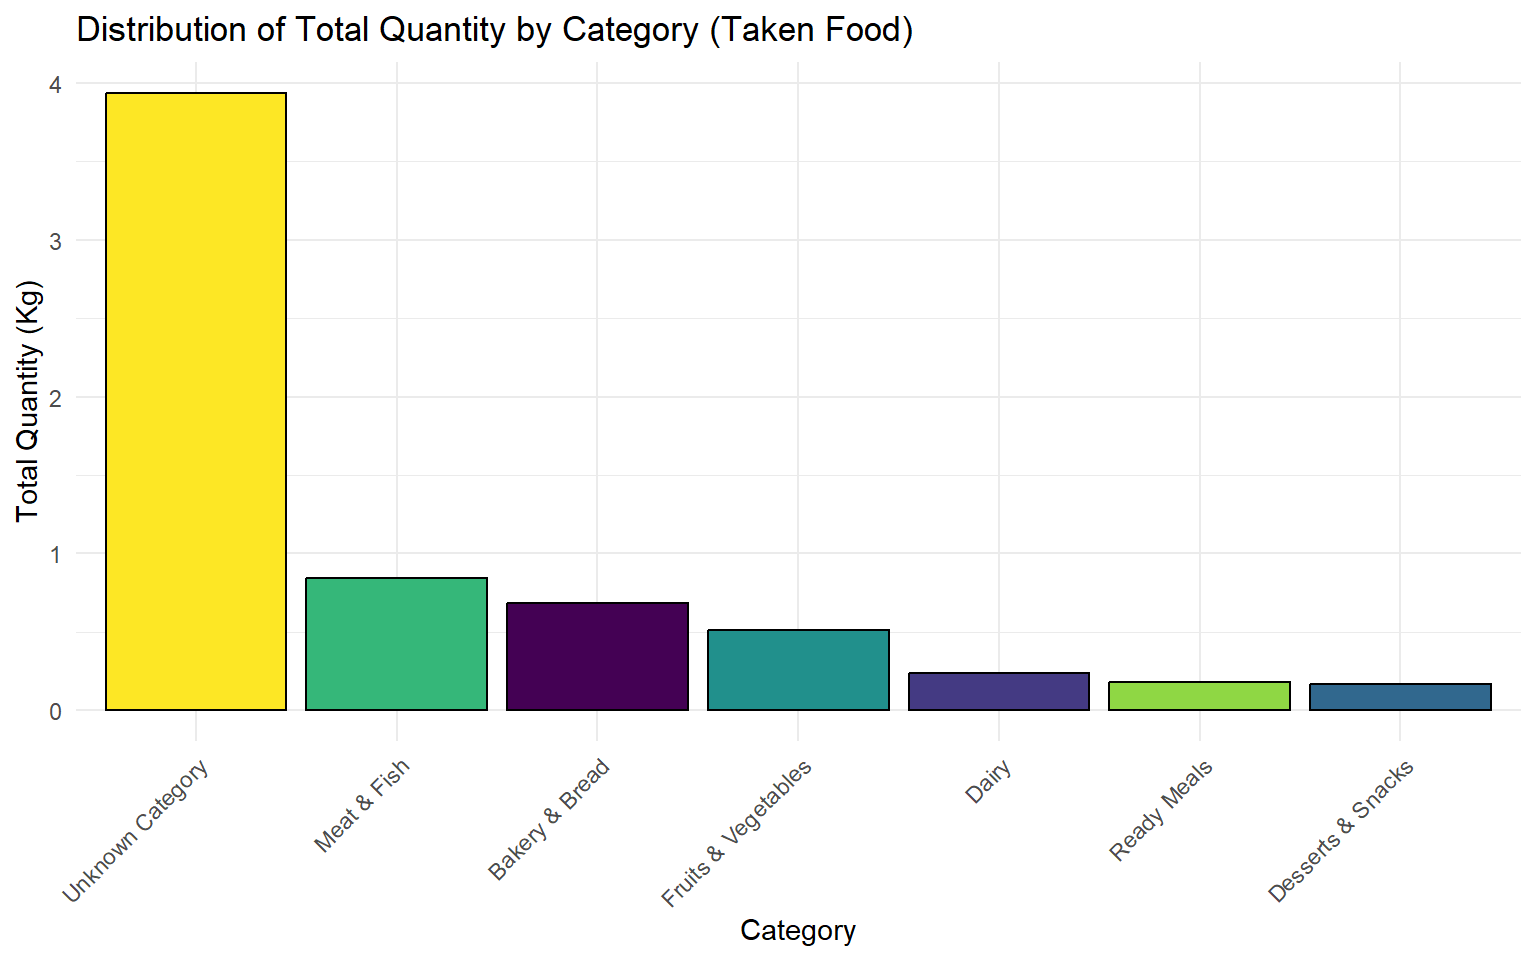
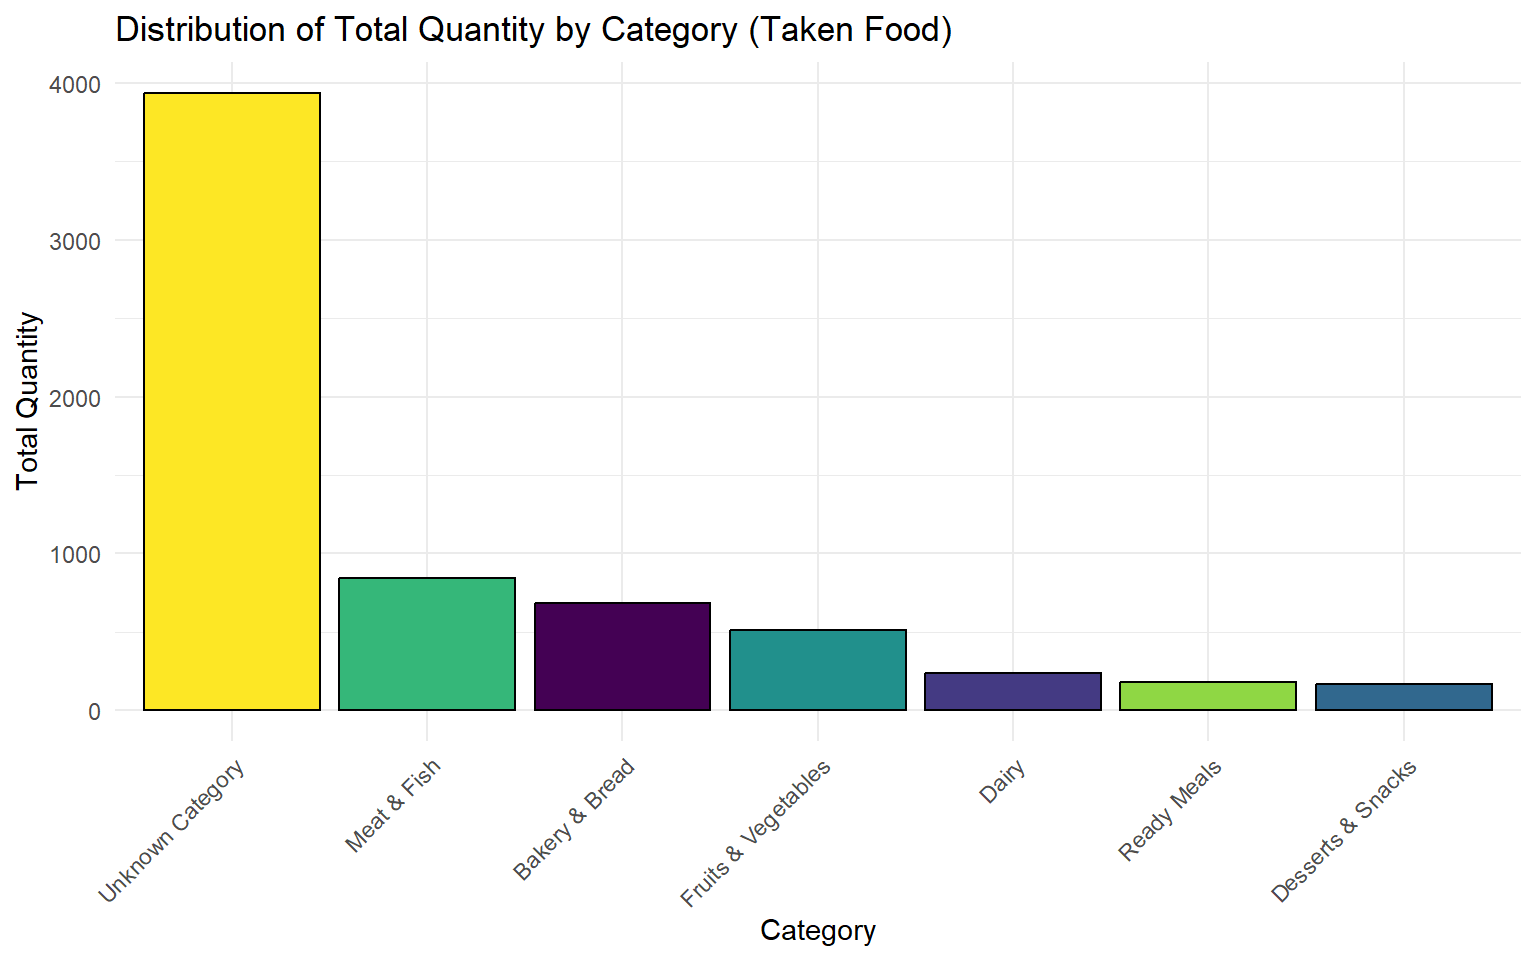
Update

diff --git a/draft.html b/draft.html
@@ -98,10 +98,10 @@ grid-auto-rows: minmax(0, 1fr);">
 <div class="html-fill-item html-fill-container value-box-grid">
 <div class="value-box-area">
 <p class="value-box-title">
-Total Quantity of Food Saved (Kg)
+Total Quantity of Food Saved
 </p>
 <p class="value-box-value">
-6.55
+6549
 </p>
 </div>
 </div>
@@ -112,10 +112,10 @@ Total Quantity of Food Saved (Kg)
 <div class="html-fill-item html-fill-container value-box-grid">
 <div class="value-box-area">
 <p class="value-box-title">
-Average Daily Quantity Saved (Kg)
+Average Daily Quantity Saved
 </p>
 <p class="value-box-value">
-0.14
+136
 </p>
 </div>
 </div>
@@ -138,7 +138,7 @@ Total Number of New Users
 </div><div class="card tabset html-fill-item html-fill-container bslib-card" data-bslib-card-init="" data-require-bs-caller="card()" data-full-screen="false">
 <div class="card-header dashboard-card-no-title bslib-navs-card-title">
 
-<ul class="nav nav-tabs card-header-tabs" role="tablist" data-tabsetid="card-tabset-4"><li class="nav-item" role="presentation"><a href="#card-tabset-4-1" role="tab" data-toggle="tab" data-bs-toggle="tab" data-value="Distribution of Total Quantity by Category" aria-selected="true" class="nav-link active">Distribution of Total Quantity by Category</a></li><li class="nav-item" role="presentation"><a href="#card-tabset-4-2" role="tab" data-toggle="tab" data-bs-toggle="tab" data-value="Cumulative Total Quantity (Taken Food)" aria-selected="false" class="nav-link">Cumulative Total Quantity (Taken Food)</a></li><li class="nav-item" role="presentation"><a href="#card-tabset-4-3" role="tab" data-toggle="tab" data-bs-toggle="tab" data-value="New Users Over Time (Taken Food)" aria-selected="false" class="nav-link">New Users Over Time (Taken Food)</a></li></ul></div>
+<ul class="nav nav-tabs card-header-tabs" role="tablist" data-tabsetid="card-tabset-4"><li class="nav-item" role="presentation"><a href="#card-tabset-4-1" role="tab" data-toggle="tab" data-bs-toggle="tab" data-value="Distribution of Total Quantity by Category" aria-selected="true" class="nav-link active">Distribution of Total Quantity by Category</a></li><li class="nav-item" role="presentation"><a href="#card-tabset-4-2" role="tab" data-toggle="tab" data-bs-toggle="tab" data-value="Cumulative Total Quantity" aria-selected="false" class="nav-link">Cumulative Total Quantity</a></li><li class="nav-item" role="presentation"><a href="#card-tabset-4-3" role="tab" data-toggle="tab" data-bs-toggle="tab" data-value="New Users Over Time (Taken Food)" aria-selected="false" class="nav-link">New Users Over Time (Taken Food)</a></li></ul></div>
 
 
 
@@ -146,15 +146,15 @@ Total Number of New Users
 <div class="cell-output-display html-fill-item html-fill-container">
 <img src="draft_files/figure-html/unnamed-chunk-5-1.png" class="img-fluid quarto-dashboard-img-contain">
 </div>
-</div></div><div class="tab-pane html-fill-item html-fill-container" role="tabpanel" id="card-tabset-4-2"><div class="card-body html-fill-item html-fill-container" data-title="Cumulative Total Quantity (Taken Food)">
+</div></div><div class="tab-pane html-fill-item html-fill-container" role="tabpanel" id="card-tabset-4-2"><div class="card-body html-fill-item html-fill-container" data-title="Cumulative Total Quantity">
 <div class="cell-output-display html-fill-item html-fill-container">
-<div class="plotly html-widget html-fill-item html-fill-container" id="htmlwidget-8364a45df3b93f4fe790" style="width:100%;height:406px;"></div>
-<script type="application/json" data-for="htmlwidget-8364a45df3b93f4fe790">{"x":{"visdat":{"b460ef13c9":["function () ","plotlyVisDat"]},"cur_data":"b460ef13c9","attrs":{"b460ef13c9":{"x":{},"y":{},"mode":"lines+markers","line":{"color":"blue"},"marker":{"color":"blue"},"alpha_stroke":1,"sizes":[10,100],"spans":[1,20],"type":"scatter"}},"layout":{"margin":{"b":40,"l":60,"t":25,"r":10},"title":"Cumulative Total Quantity (Taken Food)","xaxis":{"domain":[0,1],"automargin":true,"title":"Date"},"yaxis":{"domain":[0,1],"automargin":true,"title":"Cumulative Quantity (Kg)"},"hovermode":"closest","showlegend":false},"source":"A","config":{"modeBarButtonsToAdd":["hoverclosest","hovercompare"],"showSendToCloud":false},"data":[{"x":["2024-03-25","2024-03-26","2024-03-27","2024-04-03","2024-04-04","2024-04-05","2024-04-07","2024-04-08","2024-04-09","2024-04-10","2024-04-11","2024-04-12","2024-04-15","2024-04-16","2024-04-17","2024-04-18","2024-04-19","2024-04-20","2024-04-22","2024-04-23","2024-04-24","2024-04-25","2024-04-26","2024-04-27","2024-04-28","2024-04-29","2024-04-30","2024-05-01","2024-05-02","2024-05-03","2024-05-04","2024-05-05","2024-05-06","2024-05-07","2024-05-08","2024-05-09","2024-05-10","2024-05-11","2024-05-12","2024-05-13","2024-05-14","2024-05-15","2024-05-16","2024-05-17","2024-05-18","2024-05-19","2024-05-20","2024-05-21"],"y":[0.0050000000000000001,0.73399999999999999,1.1059999999999999,1.1539999999999999,1.1719999999999999,1.2050000000000001,1.222,1.4299999999999999,1.5549999999999999,2.1110000000000002,2.1480000000000001,2.1960000000000002,2.198,2.3330000000000002,2.3679999999999999,2.4209999999999998,2.5150000000000001,2.5260000000000002,2.7149999999999999,2.831,3.6680000000000001,3.8199999999999998,4.016,4.024,4.0369999999999999,4.0949999999999998,4.1429999999999998,4.3090000000000002,4.4219999999999997,4.6680000000000001,4.6950000000000003,4.7220000000000004,4.7919999999999998,4.8899999999999997,5.109,5.2759999999999998,5.3600000000000003,5.3879999999999999,5.4429999999999996,5.6980000000000004,5.7910000000000004,5.8609999999999998,6.0800000000000001,6.242,6.29,6.3040000000000003,6.492,6.5490000000000004],"mode":"lines+markers","line":{"color":"blue"},"marker":{"color":"blue","line":{"color":"rgba(31,119,180,1)"}},"type":"scatter","error_y":{"color":"rgba(31,119,180,1)"},"error_x":{"color":"rgba(31,119,180,1)"},"xaxis":"x","yaxis":"y","frame":null}],"highlight":{"on":"plotly_click","persistent":false,"dynamic":false,"selectize":false,"opacityDim":0.20000000000000001,"selected":{"opacity":1},"debounce":0},"shinyEvents":["plotly_hover","plotly_click","plotly_selected","plotly_relayout","plotly_brushed","plotly_brushing","plotly_clickannotation","plotly_doubleclick","plotly_deselect","plotly_afterplot","plotly_sunburstclick"],"base_url":"https://plot.ly"},"evals":[],"jsHooks":[]}</script>
+<div class="plotly html-widget html-fill-item html-fill-container" id="htmlwidget-e764def99e9b76540edb" style="width:100%;height:406px;"></div>
+<script type="application/json" data-for="htmlwidget-e764def99e9b76540edb">{"x":{"visdat":{"74464ad26e4":["function () ","plotlyVisDat"]},"cur_data":"74464ad26e4","attrs":{"74464ad26e4":{"x":{},"y":{},"mode":"lines+markers","line":{"color":"blue"},"marker":{"color":"blue"},"alpha_stroke":1,"sizes":[10,100],"spans":[1,20],"type":"scatter"}},"layout":{"margin":{"b":40,"l":60,"t":25,"r":10},"title":"Cumulative Total Quantity (Taken Food)","xaxis":{"domain":[0,1],"automargin":true,"title":"Date"},"yaxis":{"domain":[0,1],"automargin":true,"title":"Cumulative Quantity"},"hovermode":"closest","showlegend":false},"source":"A","config":{"modeBarButtonsToAdd":["hoverclosest","hovercompare"],"showSendToCloud":false},"data":[{"x":["2024-03-25","2024-03-26","2024-03-27","2024-04-03","2024-04-04","2024-04-05","2024-04-07","2024-04-08","2024-04-09","2024-04-10","2024-04-11","2024-04-12","2024-04-15","2024-04-16","2024-04-17","2024-04-18","2024-04-19","2024-04-20","2024-04-22","2024-04-23","2024-04-24","2024-04-25","2024-04-26","2024-04-27","2024-04-28","2024-04-29","2024-04-30","2024-05-01","2024-05-02","2024-05-03","2024-05-04","2024-05-05","2024-05-06","2024-05-07","2024-05-08","2024-05-09","2024-05-10","2024-05-11","2024-05-12","2024-05-13","2024-05-14","2024-05-15","2024-05-16","2024-05-17","2024-05-18","2024-05-19","2024-05-20","2024-05-21"],"y":[5,734,1106,1154,1172,1205,1222,1430,1555,2111,2148,2196,2198,2333,2368,2421,2515,2526,2715,2831,3668,3820,4016,4024,4037,4095,4143,4309,4422,4668,4695,4722,4792,4890,5109,5276,5360,5388,5443,5698,5791,5861,6080,6242,6290,6304,6492,6549],"mode":"lines+markers","line":{"color":"blue"},"marker":{"color":"blue","line":{"color":"rgba(31,119,180,1)"}},"type":"scatter","error_y":{"color":"rgba(31,119,180,1)"},"error_x":{"color":"rgba(31,119,180,1)"},"xaxis":"x","yaxis":"y","frame":null}],"highlight":{"on":"plotly_click","persistent":false,"dynamic":false,"selectize":false,"opacityDim":0.20000000000000001,"selected":{"opacity":1},"debounce":0},"shinyEvents":["plotly_hover","plotly_click","plotly_selected","plotly_relayout","plotly_brushed","plotly_brushing","plotly_clickannotation","plotly_doubleclick","plotly_deselect","plotly_afterplot","plotly_sunburstclick"],"base_url":"https://plot.ly"},"evals":[],"jsHooks":[]}</script>
 </div>
 </div></div><div class="tab-pane html-fill-item html-fill-container" role="tabpanel" id="card-tabset-4-3"><div class="card-body html-fill-item html-fill-container" data-title="New Users Over Time (Taken Food)">
 <div class="cell-output-display html-fill-item html-fill-container">
-<div class="plotly html-widget html-fill-item html-fill-container" id="htmlwidget-6b9804668f320a80a642" style="width:100%;height:406px;"></div>
-<script type="application/json" data-for="htmlwidget-6b9804668f320a80a642">{"x":{"visdat":{"b438d6e51":["function () ","plotlyVisDat"]},"cur_data":"b438d6e51","attrs":{"b438d6e51":{"x":{},"y":{},"mode":"lines+markers","line":{"color":"orange"},"marker":{"color":"orange"},"alpha_stroke":1,"sizes":[10,100],"spans":[1,20],"type":"scatter"}},"layout":{"margin":{"b":40,"l":60,"t":25,"r":10},"title":"New Users Over Time (Taken Food)","xaxis":{"domain":[0,1],"automargin":true,"title":"Date"},"yaxis":{"domain":[0,1],"automargin":true,"title":"Cumulative New Users"},"hovermode":"closest","showlegend":false},"source":"A","config":{"modeBarButtonsToAdd":["hoverclosest","hovercompare"],"showSendToCloud":false},"data":[{"x":["2024-03-25","2024-03-26","2024-03-27","2024-04-03","2024-04-04","2024-04-05","2024-04-08","2024-04-09","2024-04-10","2024-04-11","2024-04-12","2024-04-16","2024-04-17","2024-04-19","2024-04-22","2024-04-23","2024-04-24","2024-04-25","2024-04-26","2024-04-29","2024-04-30","2024-05-01","2024-05-02","2024-05-03","2024-05-04","2024-05-05","2024-05-06","2024-05-07","2024-05-08","2024-05-09","2024-05-10","2024-05-12","2024-05-13","2024-05-14","2024-05-15","2024-05-16","2024-05-18","2024-05-20","2024-05-21"],"y":[1,67,88,90,91,96,117,121,146,149,154,159,163,165,192,205,230,236,249,251,256,278,286,292,296,305,313,319,328,345,352,353,368,375,378,386,405,413,416],"mode":"lines+markers","line":{"color":"orange"},"marker":{"color":"orange","line":{"color":"rgba(31,119,180,1)"}},"type":"scatter","error_y":{"color":"rgba(31,119,180,1)"},"error_x":{"color":"rgba(31,119,180,1)"},"xaxis":"x","yaxis":"y","frame":null}],"highlight":{"on":"plotly_click","persistent":false,"dynamic":false,"selectize":false,"opacityDim":0.20000000000000001,"selected":{"opacity":1},"debounce":0},"shinyEvents":["plotly_hover","plotly_click","plotly_selected","plotly_relayout","plotly_brushed","plotly_brushing","plotly_clickannotation","plotly_doubleclick","plotly_deselect","plotly_afterplot","plotly_sunburstclick"],"base_url":"https://plot.ly"},"evals":[],"jsHooks":[]}</script>
+<div class="plotly html-widget html-fill-item html-fill-container" id="htmlwidget-6a622213b0c626a56b40" style="width:100%;height:406px;"></div>
+<script type="application/json" data-for="htmlwidget-6a622213b0c626a56b40">{"x":{"visdat":{"7443de9547a":["function () ","plotlyVisDat"]},"cur_data":"7443de9547a","attrs":{"7443de9547a":{"x":{},"y":{},"mode":"lines+markers","line":{"color":"orange"},"marker":{"color":"orange"},"alpha_stroke":1,"sizes":[10,100],"spans":[1,20],"type":"scatter"}},"layout":{"margin":{"b":40,"l":60,"t":25,"r":10},"title":"New Users Over Time (Taken Food)","xaxis":{"domain":[0,1],"automargin":true,"title":"Date"},"yaxis":{"domain":[0,1],"automargin":true,"title":"Cumulative New Users"},"hovermode":"closest","showlegend":false},"source":"A","config":{"modeBarButtonsToAdd":["hoverclosest","hovercompare"],"showSendToCloud":false},"data":[{"x":["2024-03-25","2024-03-26","2024-03-27","2024-04-03","2024-04-04","2024-04-05","2024-04-08","2024-04-09","2024-04-10","2024-04-11","2024-04-12","2024-04-16","2024-04-17","2024-04-19","2024-04-22","2024-04-23","2024-04-24","2024-04-25","2024-04-26","2024-04-29","2024-04-30","2024-05-01","2024-05-02","2024-05-03","2024-05-04","2024-05-05","2024-05-06","2024-05-07","2024-05-08","2024-05-09","2024-05-10","2024-05-12","2024-05-13","2024-05-14","2024-05-15","2024-05-16","2024-05-18","2024-05-20","2024-05-21"],"y":[1,67,88,90,91,96,117,121,146,149,154,159,163,165,192,205,230,236,249,251,256,278,286,292,296,305,313,319,328,345,352,353,368,375,378,386,405,413,416],"mode":"lines+markers","line":{"color":"orange"},"marker":{"color":"orange","line":{"color":"rgba(31,119,180,1)"}},"type":"scatter","error_y":{"color":"rgba(31,119,180,1)"},"error_x":{"color":"rgba(31,119,180,1)"},"xaxis":"x","yaxis":"y","frame":null}],"highlight":{"on":"plotly_click","persistent":false,"dynamic":false,"selectize":false,"opacityDim":0.20000000000000001,"selected":{"opacity":1},"debounce":0},"shinyEvents":["plotly_hover","plotly_click","plotly_selected","plotly_relayout","plotly_brushed","plotly_brushing","plotly_clickannotation","plotly_doubleclick","plotly_deselect","plotly_afterplot","plotly_sunburstclick"],"base_url":"https://plot.ly"},"evals":[],"jsHooks":[]}</script>
 </div>
 </div></div></div><bslib-tooltip placement="auto" bsoptions="[]" data-require-bs-version="5" data-require-bs-caller="tooltip()">
     <template>Expand</template>
